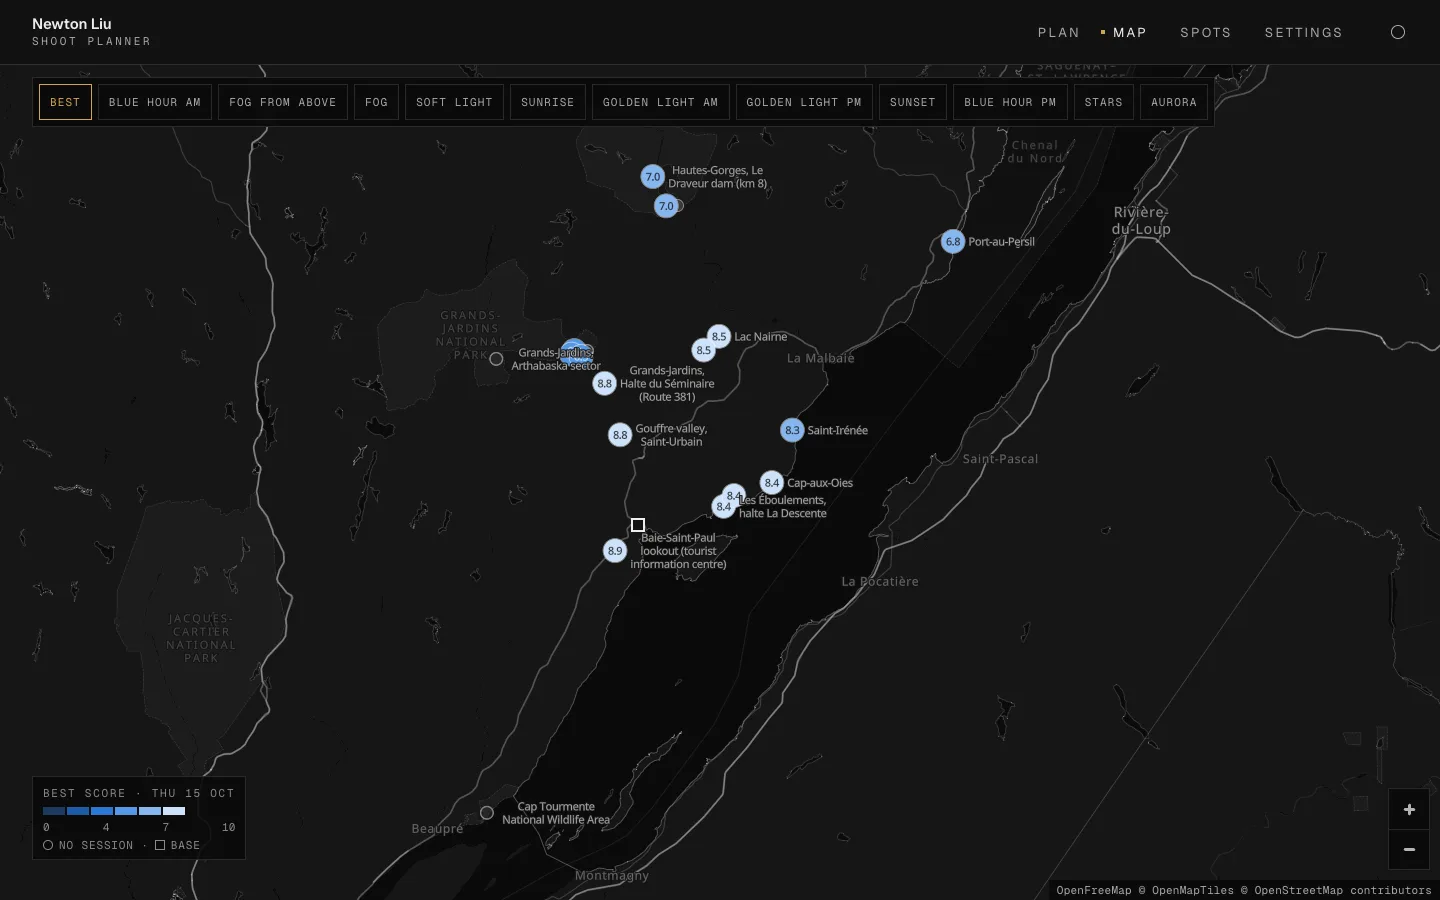
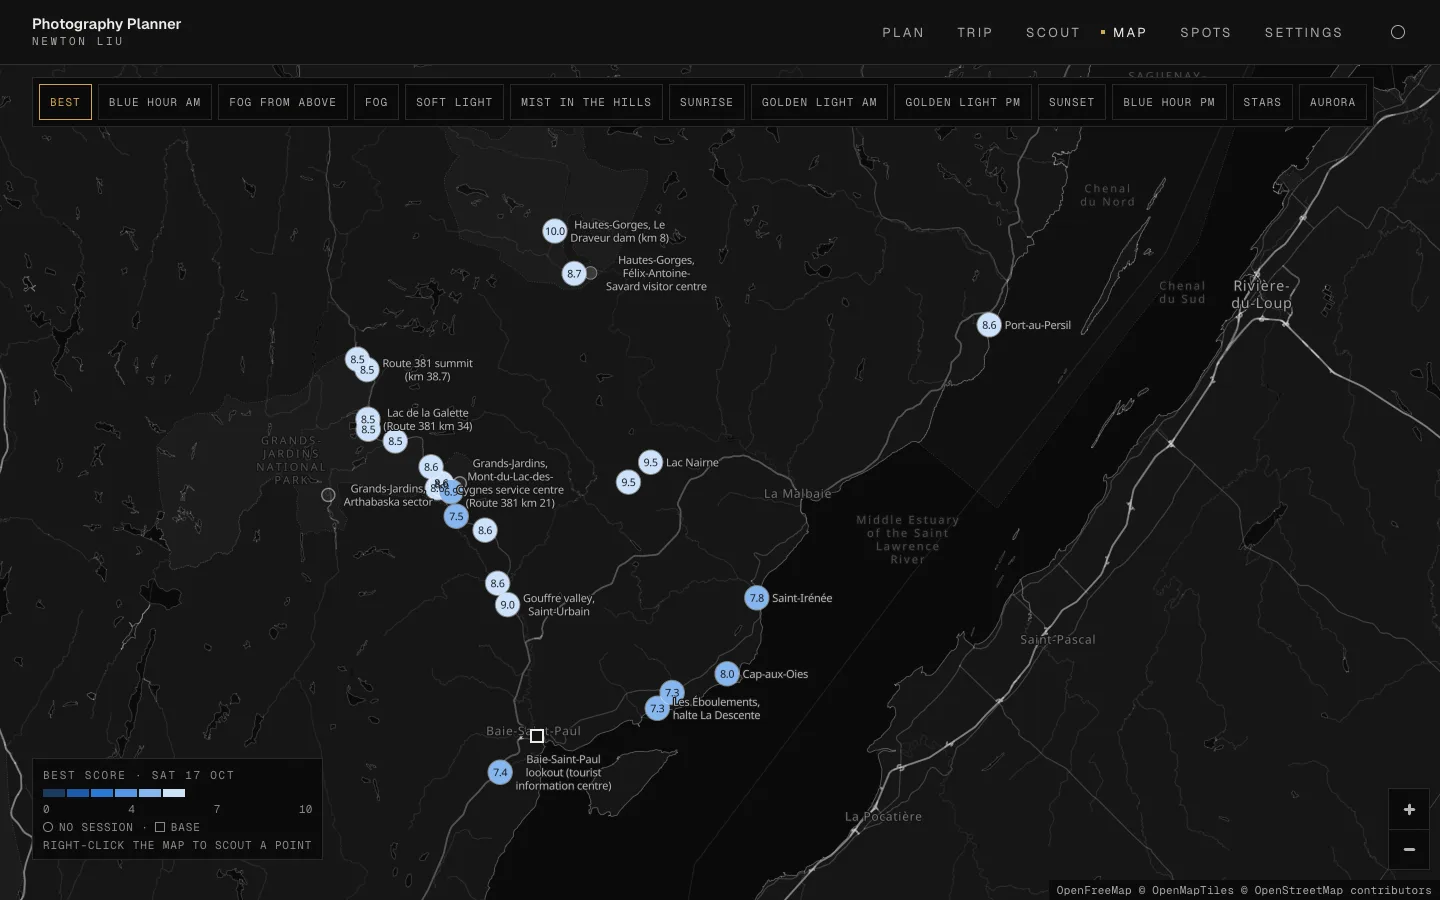
Projects: Shoot Planner is now Photography Planner, with fresh screenshots of the current app

diff --git a/projects.html b/projects.html
@@ -38,7 +38,7 @@
       <p class="about-name" data-edit="projects.name">Newton Liu</p>
       <nav class="about-jump" aria-label="Projects">
         <a href="#ebird-explorer">eBird Explorer</a>
-        <a href="#shoot-planner">Shoot Planner</a>
+        <a href="#shoot-planner">Photography Planner</a>
         <a href="#retreat-finder">Retreat Finder</a>
         <a href="#site-ranking">Site Ranking</a>
       </nav>
@@ -77,7 +77,7 @@ I built it for my own trips, from Alaska and Quebec to Puerto Rico and Oaxaca.</
 
       <article class="project" id="shoot-planner">
         <p class="project-kicker" data-edit="projects.shootplanner.kicker">Web app · 2026</p>
-        <h2 class="project-title">Shoot Planner</h2>
+        <h2 class="project-title">Photography Planner</h2>
         <p class="project-blurb" data-edit="projects.shootplanner.blurb" data-edit-lines>A planner for landscape photography. Pick a date and a base, and it scores my saved spots for sunrise, sunset, golden light, soft light, fog, stars and aurora from free forecast, tide and space-weather data. Then it builds the day: when to wake, where to drive, and a backup for each session, with the reasons behind every score.
 
 It started with a stormy week in Charlevoix, Quebec, in October 2026, and works wherever I travel.</p>
@@ -90,7 +90,7 @@ It started with a stormy week in Charlevoix, Quebec, in October 2026, and works 
           <img src="images/_projects/shoot-planner/plan.webp"
                srcset="images/_projects/shoot-planner/1440/plan.webp 1440w, images/_projects/shoot-planner/plan.webp 2880w"
                sizes="(max-width: 1000px) 100vw, min(62vw, 67rem)"
-               alt="Shoot Planner's day plan for Thursday 15 October 2026 from Baie-Saint-Paul: wake at 05:51, then soft light at Gouffre valley scoring 8.3, each session with leave, arrive and shoot times, its reasons and a backup."
+               alt="Photography Planner's day plan for Sunday 18 October 2026 from Baie-Saint-Paul: wake at 06:31, then golden light at the Baie-Saint-Paul lookout scoring 10, golden light at Port-au-Persil and stars at Petits Lots, each session with leave, arrive and shoot times, its reasons and a backup."
                width="2880" height="1800" loading="lazy" decoding="async">
           <figcaption data-edit="projects.shootplanner.shot1">Day plan: when to wake, then a pick and a backup for each session, with the reasons</figcaption>
         </figure>
@@ -99,7 +99,7 @@ It started with a stormy week in Charlevoix, Quebec, in October 2026, and works 
           <img src="images/_projects/shoot-planner/spot-sheet.webp"
                srcset="images/_projects/shoot-planner/1440/spot-sheet.webp 1440w, images/_projects/shoot-planner/spot-sheet.webp 2880w"
                sizes="(max-width: 1000px) 100vw, min(62vw, 67rem)"
-               alt="The spot sheet for the Baie-Saint-Paul lookout: an hourly chart of low, mid and high cloud, fog and rain for the day, a sun and moon timeline, and the dawn, sunset and dusk times."
+               alt="The spot sheet for the Baie-Saint-Paul lookout on Sunday 18 October: an hourly chart of low, mid and high cloud, fog and rain for the day, a sun and moon timeline, and the dawn, sunset and dusk times."
                width="2880" height="1800" loading="lazy" decoding="async">
           <figcaption data-edit="projects.shootplanner.shot2">Spot sheet: the day’s cloud layers, fog and rain hour by hour, against the sun and moon</figcaption>
         </figure>
@@ -108,7 +108,7 @@ It started with a stormy week in Charlevoix, Quebec, in October 2026, and works 
           <img src="images/_projects/shoot-planner/map.webp"
                srcset="images/_projects/shoot-planner/1440/map.webp 1440w, images/_projects/shoot-planner/map.webp 2880w"
                sizes="(max-width: 1000px) 100vw, min(62vw, 67rem)"
-               alt="Map of Charlevoix with each saved spot marked by its best score for the day, from Hautes-Gorges in the north to Cap Tourmente in the south."
+               alt="Map of Charlevoix for Saturday 17 October 2026, each saved spot marked by its best score for the day, from Hautes-Gorges in the north to the Baie-Saint-Paul lookout in the south."
                width="2880" height="1800" loading="lazy" decoding="async">
           <figcaption data-edit="projects.shootplanner.shot3">Map: every spot marked with its best score for the day</figcaption>
         </figure>
